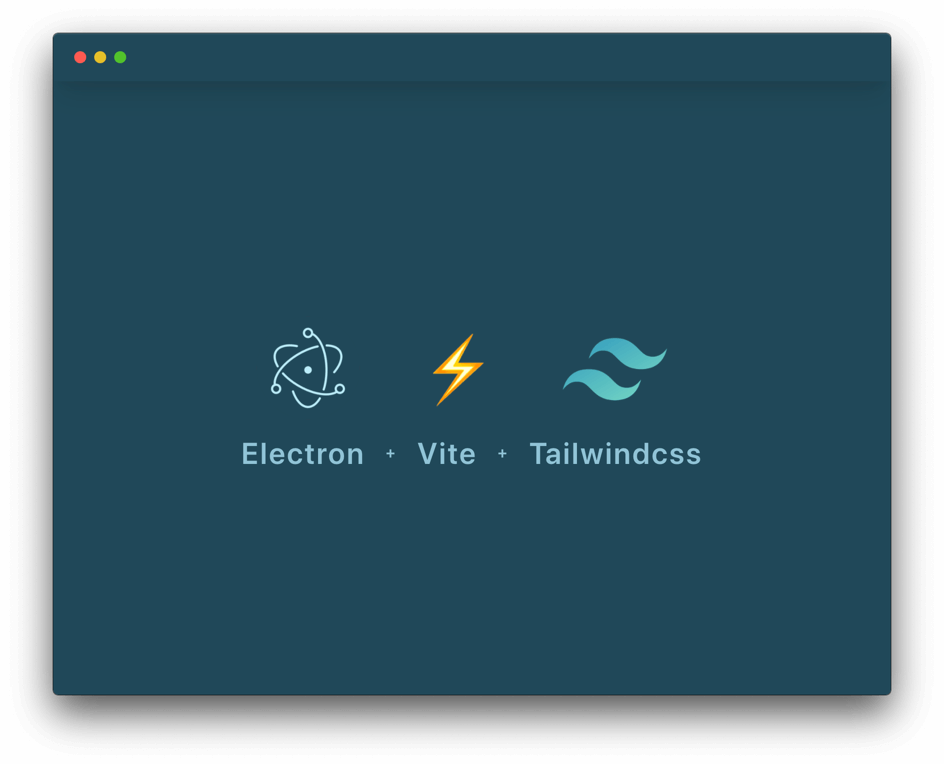
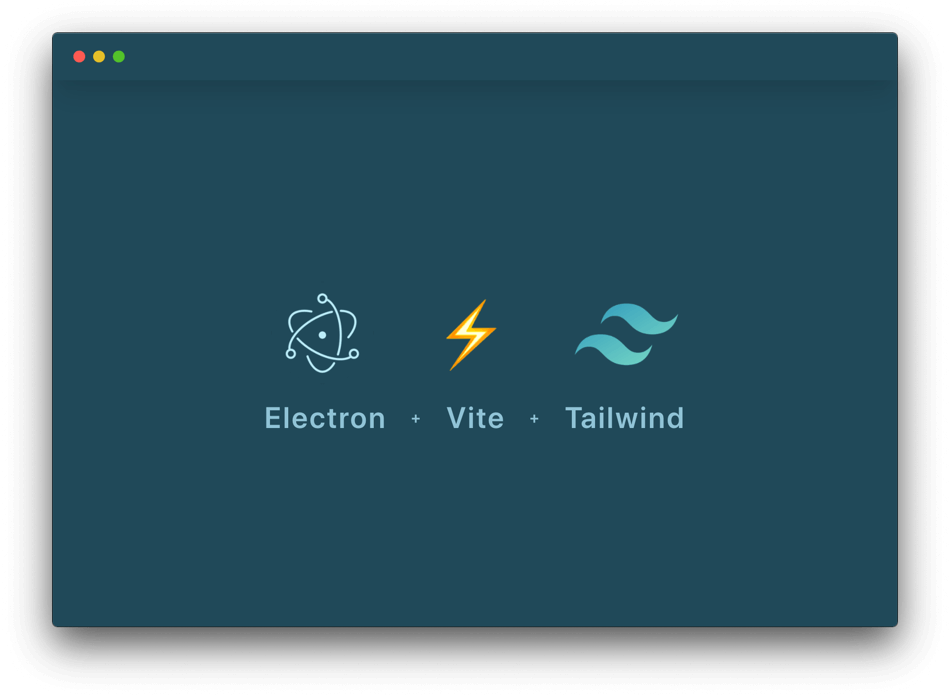
Some naming changes

diff --git a/src/App.vue b/src/App.vue
@@ -1,14 +1,15 @@
 <template>
   <div class="h-screen w-screen flex flex-col pt-12">
     <TopBar />
+    <!-- [ HERE COMES YOUR CONTENT ] -->
     <transition name="fade" appear>
       <div class="flex flex-col items-center justify-center h-full pb-0">
-        <img class="h-32" src="/logo.png" draggable="false" />
+        <img class="h-32 ml-5" src="/logo.png" draggable="false" />
         <h1
           class="text-3xl tracking-wider text-primary-100 font-semibold items-center justify-center flex"
         >
-          Electron <span class="font-semibold text-base px-5">+</span> Vite
-          <span class="font-semibold text-base px-5">+</span> Tailwindcss
+          Electron <span class="font-semibold text-base px-6">+</span> Vite
+          <span class="font-semibold text-base px-6">+</span> Tailwind
         </h1>
       </div>
     </transition>

diff --git a/README.md b/README.md
@@ -1,8 +1,8 @@
 # Electron + Vite + Tailwind - Starter
 
-![Electron + Vite + Tailwindcss Starter](screenshot.png)
+![Electron + Vite + Tailwind Starter](screenshot.png)
 
-This Starter utilizes [Electron](https://electronjs.org/), [Vite](https://github.com/vitejs/vite) and [TailwindCSS](https://tailwindcss.com/) in combination. It trys to adhare the best practices mentioned in the [Talk by Kilian Valkhof](https://www.youtube.com/watch?v=fw4PmPaghyU)
+This Starter utilizes [Electron](https://electronjs.org/), [Vite](https://github.com/vitejs/vite) and [Tailwind](https://tailwindcss.com/) in combination. It trys to adhare the best practices mentioned in the [Talk by Kilian Valkhof](https://www.youtube.com/watch?v=fw4PmPaghyU)
 
 ## Installation
 
